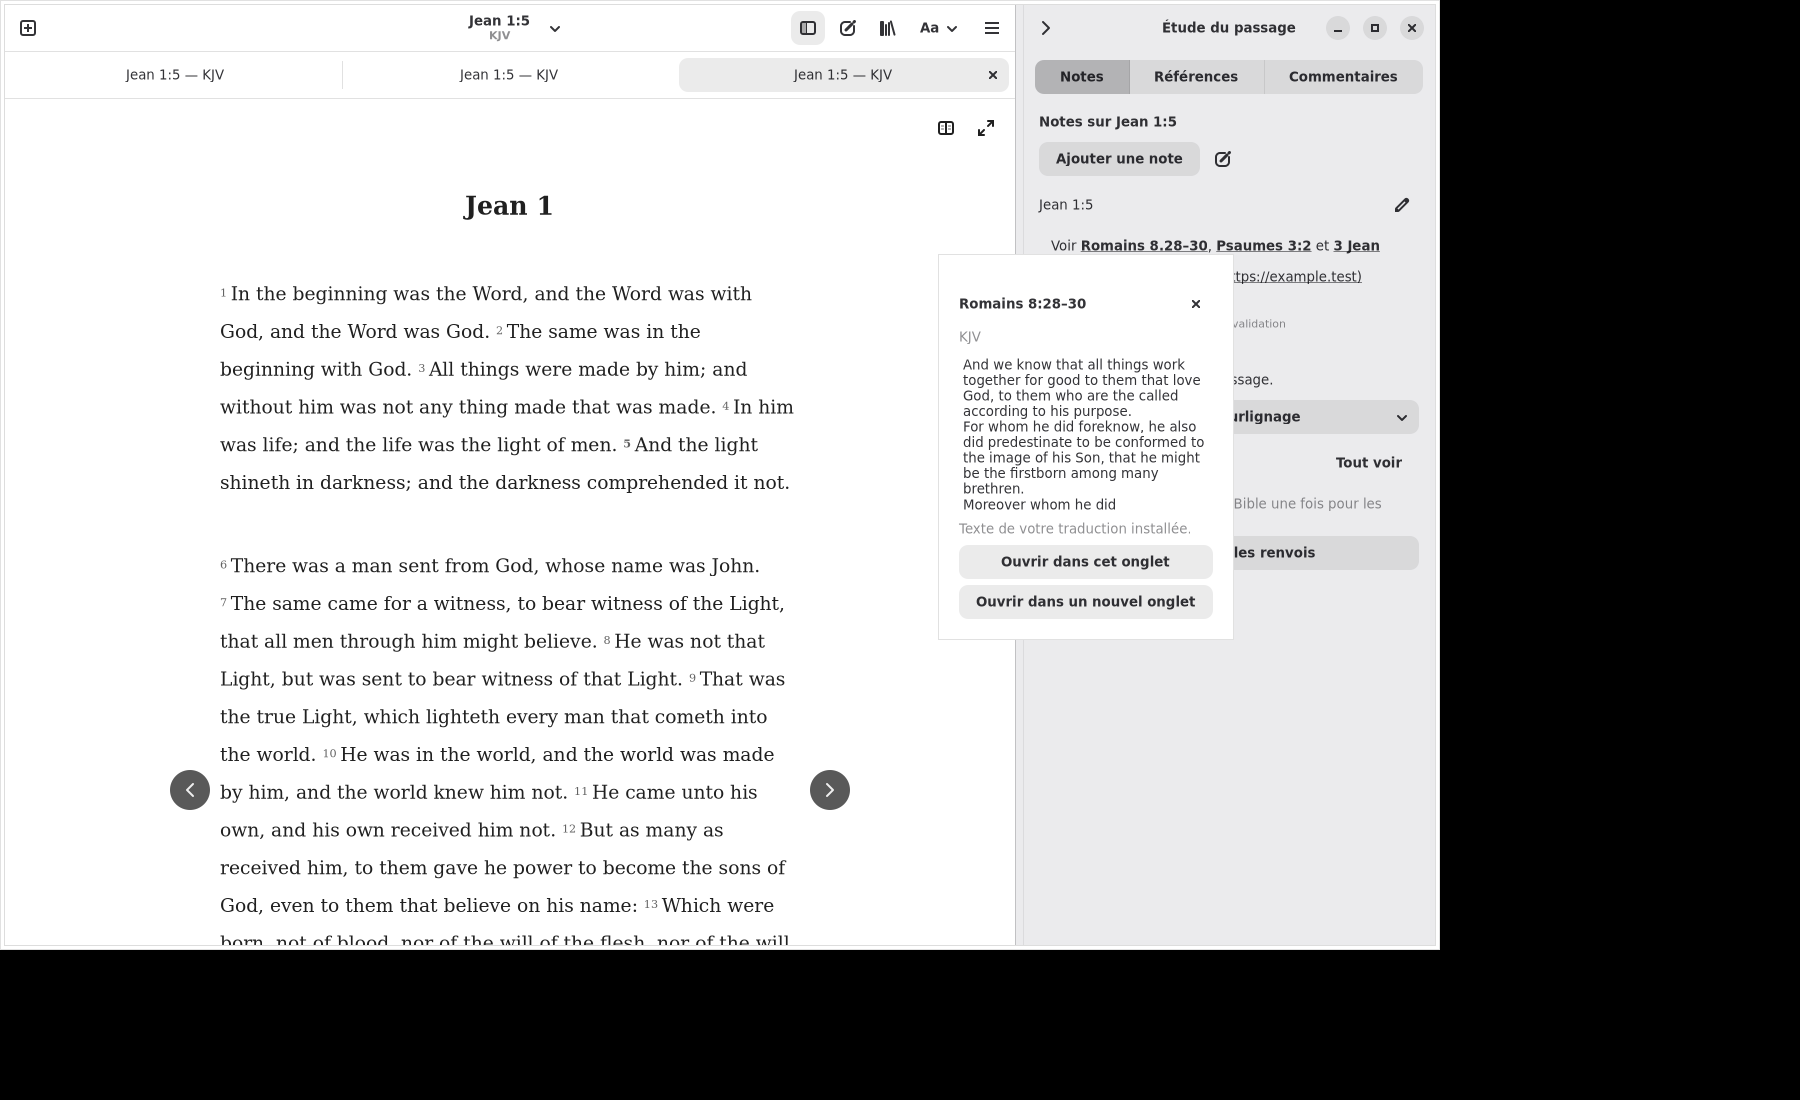
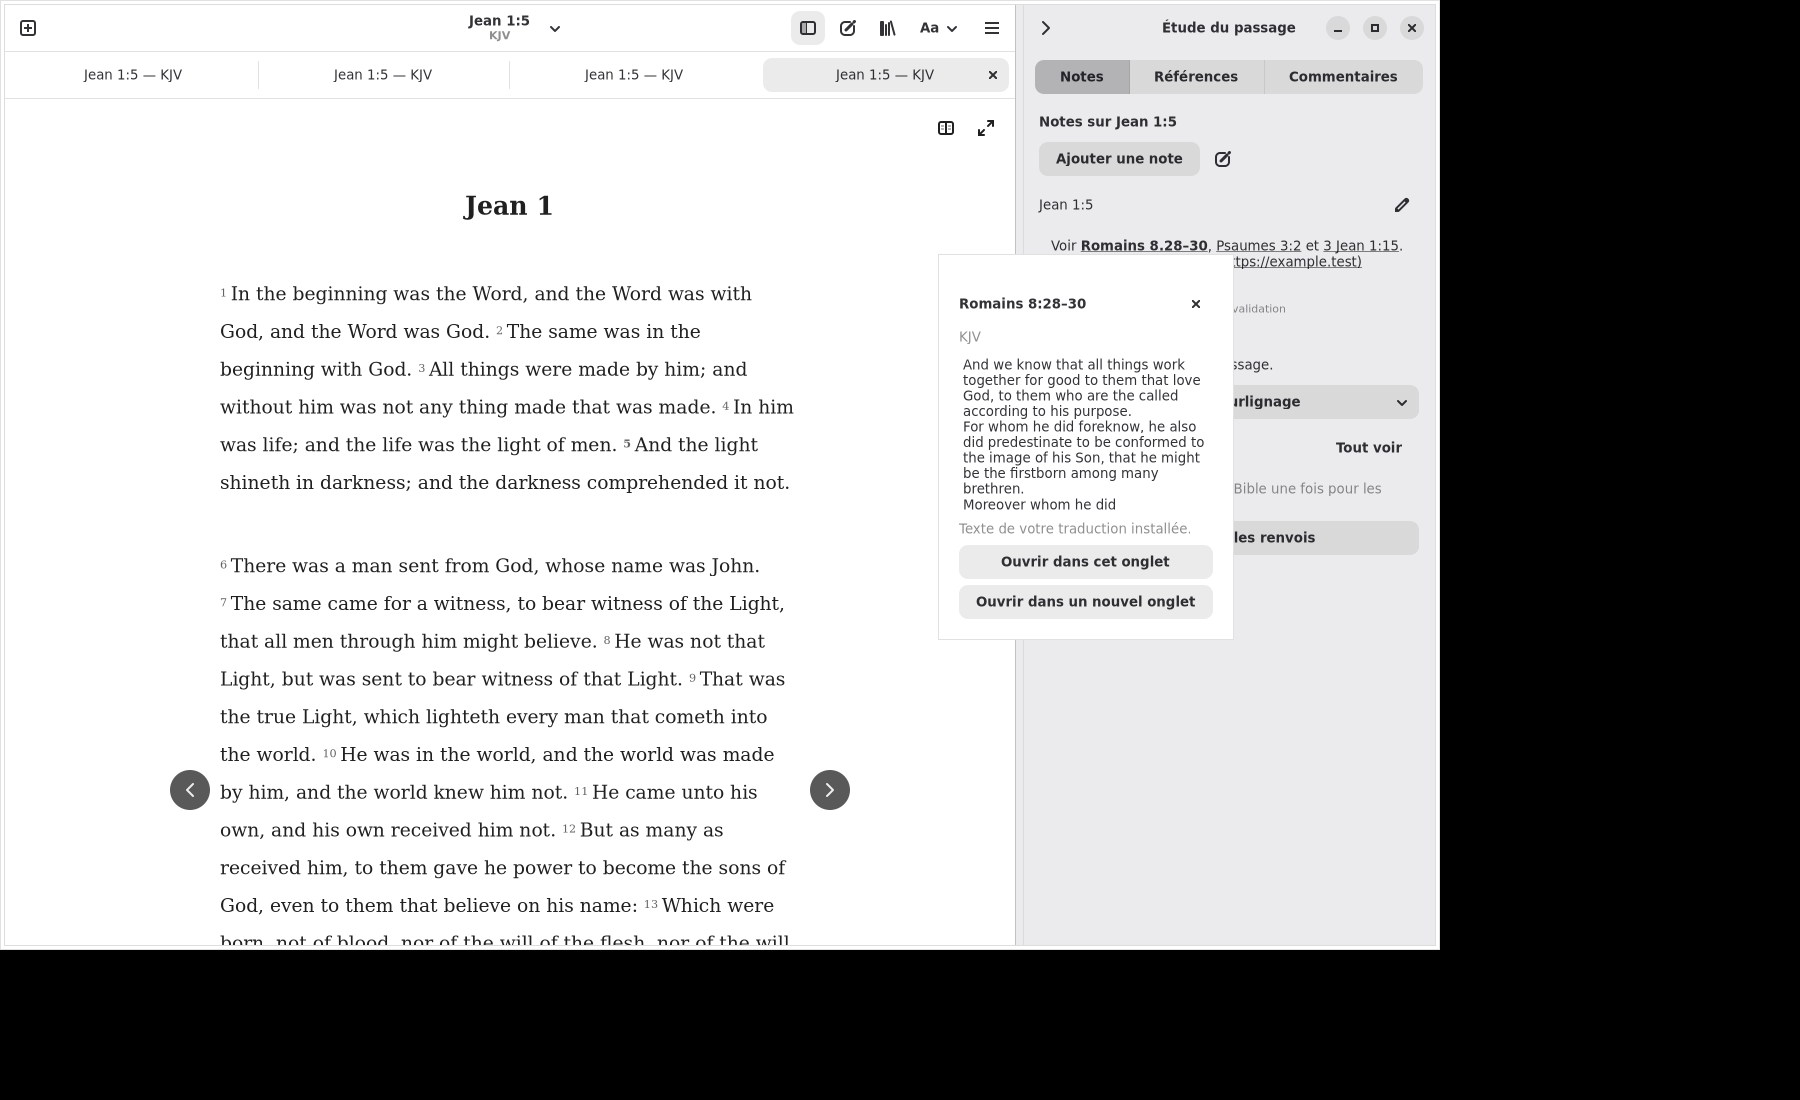
Preserve Markdown emphasis when decorating note citations

diff --git a/tests/test_note_citations.py b/tests/test_note_citations.py
@@ -40,6 +40,9 @@ class NoteCitationTests(unittest.TestCase):
             child=widget.get_first_child()
             while child:yield from walk(child);child=child.get_next_sibling()
         preview=next(walk(w.study.notes.list));self.assertEqual(len(preview.citations),2)
+        bold=preview.get_buffer().get_iter_at_offset(preview.citations[0].begin)
+        weights=[tag.props.weight for tag in bold.get_tags() if tag.props.weight_set]
+        self.assertEqual(weights[-1],700,'Generated links must preserve Markdown bold weight')
         before=(w.active_tab.state.reference,list(w.active_tab.state.history),w.view.get_n_pages())
         preview.activate(0);spin()
         self.assertEqual(w.reference_preview.body.get_buffer().props.text,'EXACT PSALM English')

diff --git a/bible/note_preview.py b/bible/note_preview.py
@@ -16,7 +16,7 @@ class NotePreview(Gtk.TextView):
         self.tags = {'bold': buffer.create_tag(None, weight=700),
                      'italic': buffer.create_tag(None, style=Pango.Style.ITALIC),
                      'link': buffer.create_tag(None, underline=Pango.Underline.SINGLE)}
-        self.citation_tag=buffer.create_tag(None,underline=Pango.Underline.SINGLE,weight=600)
+        self.citation_tag=buffer.create_tag(None,underline=Pango.Underline.SINGLE)
         click=Gtk.GestureClick(button=1)
         click.connect('pressed',self.pressed);click.connect('released',self.released);self.add_controller(click)
         motion=Gtk.EventControllerMotion();motion.connect('motion',self.motion);self.add_controller(motion)
